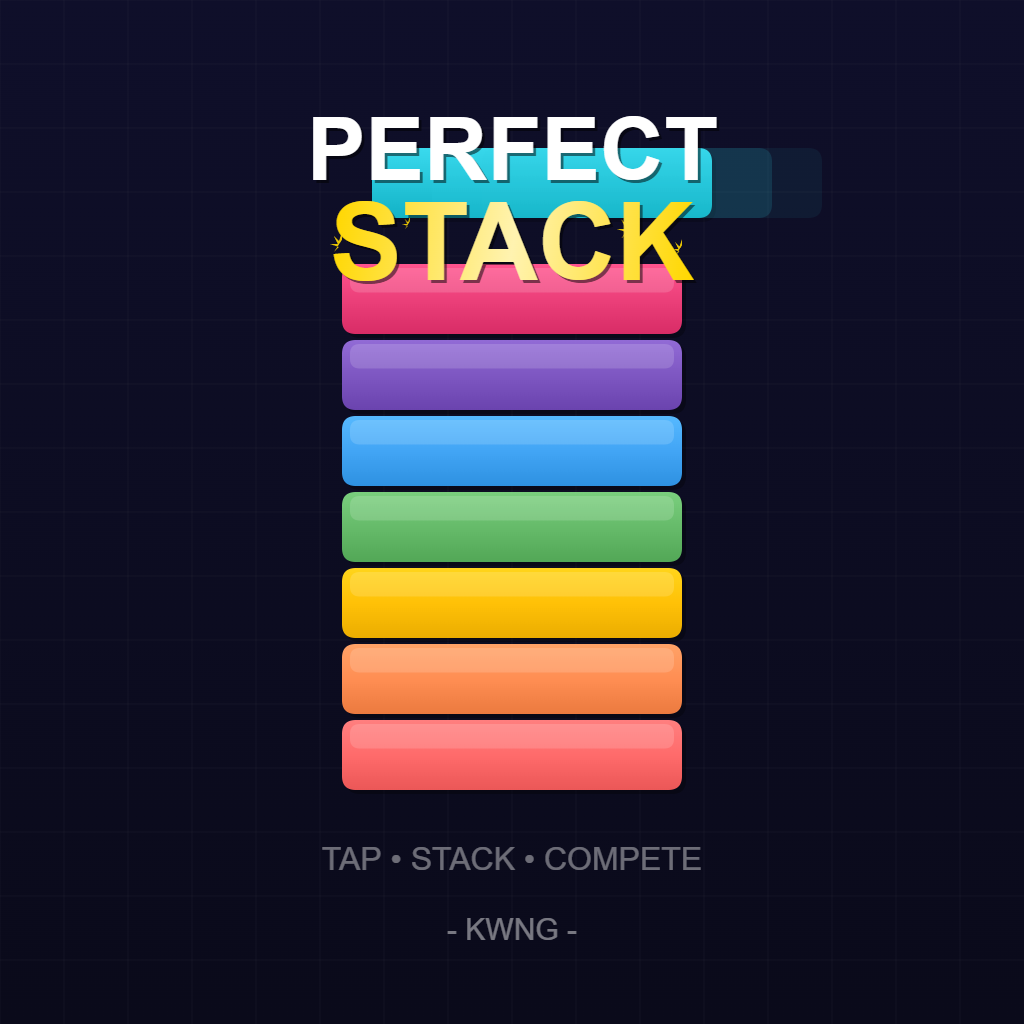
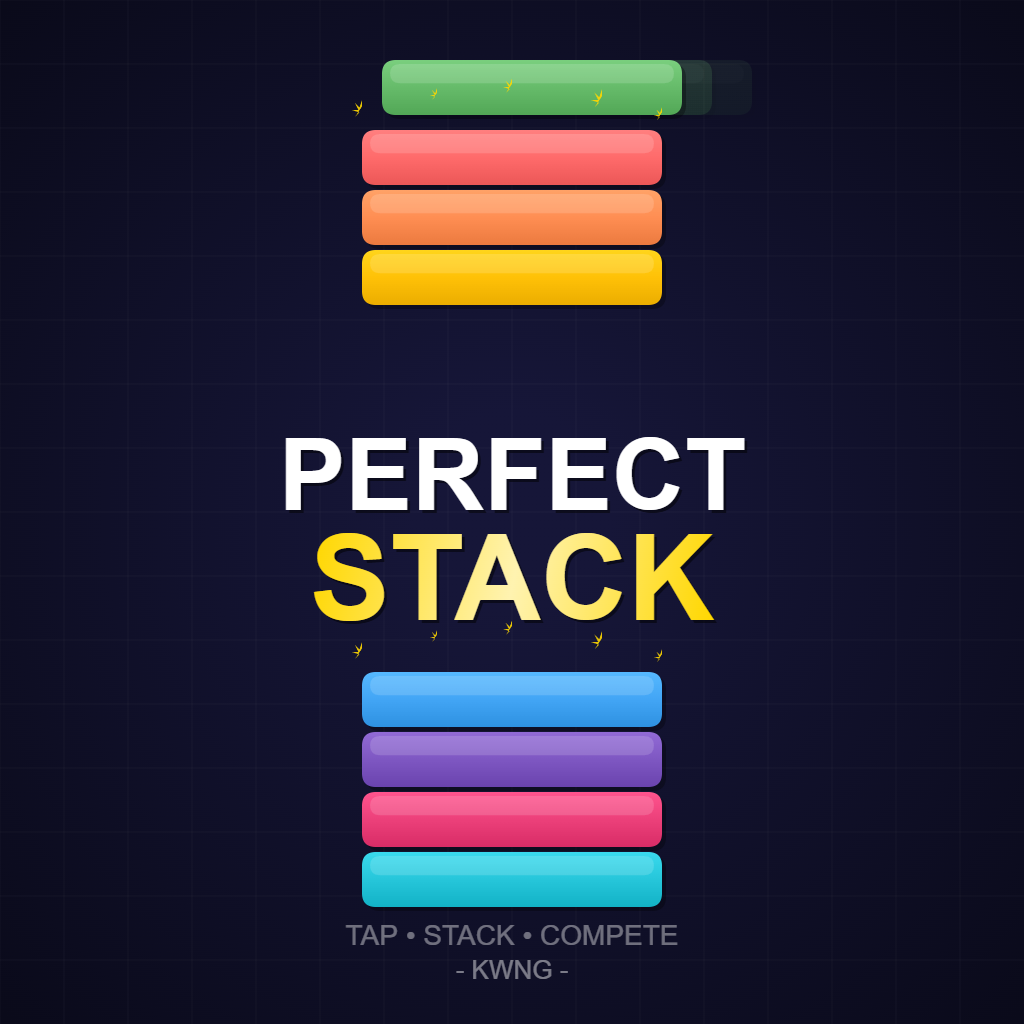
more updates

Changed region(s): [[0.2812, 0.0312, 0.7812, 0.9688]]

diff --git a/scripts/generate-icon.html b/scripts/generate-icon.html
@@ -38,22 +38,21 @@
   <h2>Perfect Stack — App Icon (1024x1024)</h2>
   <canvas id="icon" width="1024" height="1024"></canvas>
   <button onclick="download()">Download Icon (PNG)</button>
-  <p>The downloaded file will have square corners — Apple rounds them automatically.</p>
+  <p>The downloaded file will have square corners — Apple/Google rounds them automatically.</p>
 
   <script>
     const S = 1024;
     const c = document.getElementById("icon");
     const ctx = c.getContext("2d");
 
-    // Colors from the game palette
     const PALETTE = [
       "#FF6B6B", "#FF8E53", "#FFC107", "#66BB6A",
       "#42A5F5", "#7E57C2", "#EC407A", "#26C6DA",
     ];
 
     // Background — dark gradient
-    const bg = ctx.createLinearGradient(0, 0, 0, S);
-    bg.addColorStop(0, "#0F0F2A");
+    const bg = ctx.createRadialGradient(S / 2, S / 2, 100, S / 2, S / 2, S * 0.7);
+    bg.addColorStop(0, "#161638");
     bg.addColorStop(1, "#0A0A1A");
     ctx.fillStyle = bg;
     ctx.fillRect(0, 0, S, S);
@@ -66,109 +65,99 @@
       ctx.beginPath(); ctx.moveTo(0, i); ctx.lineTo(S, i); ctx.stroke();
     }
 
-    // Draw stacked blocks
-    const blockW = 340;
-    const blockH = 70;
-    const startX = (S - blockW) / 2;
-    const startY = 720; // bottom of stack
-    const blocks = 7;
-    const gap = 6;
+    // --- TOP BLOCKS (above text) ---
+    const blockW = 300;
+    const blockH = 55;
+    const topStackX = (S - blockW) / 2;
+    const topBlocks = 3;
 
-    for (let i = 0; i < blocks; i++) {
-      const x = startX;
-      const y = startY - i * (blockH + gap);
-      const color = PALETTE[i % PALETTE.length];
-      const r = 14;
+    // Moving block with trail at the very top
+    const movY = 60;
+    const movColor = PALETTE[3];
+    ctx.globalAlpha = 0.07;
+    drawBlock(ctx, topStackX + 90, movY, blockW, blockH, movColor);
+    ctx.globalAlpha = 0.15;
+    drawBlock(ctx, topStackX + 50, movY, blockW, blockH, movColor);
+    ctx.globalAlpha = 1;
+    drawBlock(ctx, topStackX + 20, movY, blockW, blockH, movColor);
 
-      // Block shadow
-      ctx.fillStyle = "rgba(0,0,0,0.3)";
-      roundRect(ctx, x + 4, y + 4, blockW, blockH, r);
-      ctx.fill();
-
-      // Block body — gradient
-      const grad = ctx.createLinearGradient(x, y, x, y + blockH);
-      grad.addColorStop(0, lighten(color, 20));
-      grad.addColorStop(0.5, color);
-      grad.addColorStop(1, darken(color, 20));
-      ctx.fillStyle = grad;
-      roundRect(ctx, x, y, blockW, blockH, r);
-      ctx.fill();
-
-      // Shine on top
-      ctx.fillStyle = "rgba(255,255,255,0.15)";
-      roundRect(ctx, x + 8, y + 4, blockW - 16, blockH * 0.35, r - 4);
-      ctx.fill();
-
-      // Top block sparkle effect (perfect indicator)
-      if (i === blocks - 1) {
-        drawSparkles(ctx, x + blockW / 2, y, blockW);
-      }
+    // Stacked blocks above text
+    for (let i = 0; i < topBlocks; i++) {
+      const y = 130 + i * (blockH + 5);
+      drawBlock(ctx, topStackX, y, blockW, blockH, PALETTE[i]);
     }
 
-    // Moving block above stack (slightly offset to show gameplay)
-    const movingY = startY - blocks * (blockH + gap) - 40;
-    const movingX = startX + 30; // slightly offset
-    const movingColor = PALETTE[blocks % PALETTE.length];
+    // Sparkles between top blocks and text
+    drawSparkles(ctx, S / 2, 125, blockW);
 
-    // Moving block shadow
-    ctx.fillStyle = "rgba(0,0,0,0.2)";
-    roundRect(ctx, movingX + 4, movingY + 4, blockW, blockH, 14);
-    ctx.fill();
-
-    // Moving block with dashed outline to show motion
-    const mGrad = ctx.createLinearGradient(movingX, movingY, movingX, movingY + blockH);
-    mGrad.addColorStop(0, lighten(movingColor, 20));
-    mGrad.addColorStop(0.5, movingColor);
-    mGrad.addColorStop(1, darken(movingColor, 20));
-    ctx.fillStyle = mGrad;
-    roundRect(ctx, movingX, movingY, blockW, blockH, 14);
-    ctx.fill();
-
-    // Motion trail for moving block
-    ctx.globalAlpha = 0.15;
-    ctx.fillStyle = movingColor;
-    roundRect(ctx, movingX + 60, movingY, blockW, blockH, 14);
-    ctx.fill();
-    ctx.globalAlpha = 0.07;
-    roundRect(ctx, movingX + 110, movingY, blockW, blockH, 14);
-    ctx.fill();
-    ctx.globalAlpha = 1;
-
-    // "PERFECT STACK" text
+    // --- CENTER TEXT ---
     ctx.textAlign = "center";
+    ctx.textBaseline = "middle";
 
-    // Text shadow
+    // "PERFECT" shadow
     ctx.fillStyle = "rgba(0,0,0,0.5)";
-    ctx.font = "bold 88px -apple-system, Helvetica, Arial, sans-serif";
-    ctx.fillText("PERFECT", S / 2 + 3, 183);
-    ctx.font = "bold 108px -apple-system, Helvetica, Arial, sans-serif";
-    ctx.fillText("STACK", S / 2 + 3, 283);
+    ctx.font = "bold 100px -apple-system, Helvetica, Arial, sans-serif";
+    ctx.fillText("PERFECT", S / 2 + 3, S / 2 - 30 + 3);
 
-    // Main text
+    // "PERFECT" white
     ctx.fillStyle = "#FFFFFF";
-    ctx.font = "bold 88px -apple-system, Helvetica, Arial, sans-serif";
-    ctx.fillText("PERFECT", S / 2, 180);
+    ctx.font = "bold 100px -apple-system, Helvetica, Arial, sans-serif";
+    ctx.fillText("PERFECT", S / 2, S / 2 - 30);
 
-    // "STACK" with gold gradient
-    const tGrad = ctx.createLinearGradient(S / 2 - 180, 220, S / 2 + 180, 280);
+    // "STACK" shadow
+    ctx.fillStyle = "rgba(0,0,0,0.5)";
+    ctx.font = "bold 120px -apple-system, Helvetica, Arial, sans-serif";
+    ctx.fillText("STACK", S / 2 + 3, S / 2 + 75 + 3);
+
+    // "STACK" gold gradient
+    const tGrad = ctx.createLinearGradient(S / 2 - 200, S / 2 + 30, S / 2 + 200, S / 2 + 120);
     tGrad.addColorStop(0, "#FFD700");
     tGrad.addColorStop(0.5, "#FFF3B0");
     tGrad.addColorStop(1, "#FFD700");
     ctx.fillStyle = tGrad;
-    ctx.font = "bold 108px -apple-system, Helvetica, Arial, sans-serif";
-    ctx.fillText("STACK", S / 2, 280);
+    ctx.font = "bold 120px -apple-system, Helvetica, Arial, sans-serif";
+    ctx.fillText("STACK", S / 2, S / 2 + 75);
+
+    // --- BOTTOM BLOCKS (below text) ---
+    const botStartY = S / 2 + 160;
+    const botBlocks = 4;
+
+    for (let i = 0; i < botBlocks; i++) {
+      const y = botStartY + i * (blockH + 5);
+      drawBlock(ctx, topStackX, y, blockW, blockH, PALETTE[(i + 4) % PALETTE.length]);
+    }
+
+    // Sparkles on bottom stack
+    drawSparkles(ctx, S / 2, botStartY - 5, blockW);
 
     // Tagline
     ctx.fillStyle = "rgba(255,255,255,0.4)";
-    ctx.font = "500 32px -apple-system, Helvetica, Arial, sans-serif";
-    ctx.fillText("TAP \u2022 STACK \u2022 COMPETE", S / 2, 870);
+    ctx.font = "500 28px -apple-system, Helvetica, Arial, sans-serif";
+    ctx.fillText("TAP \u2022 STACK \u2022 COMPETE", S / 2, botStartY + botBlocks * (blockH + 5) + 25);
 
     // Developer credit
     ctx.fillStyle = "rgba(255,255,255,0.45)";
-    ctx.font = "500 30px -apple-system, Helvetica, Arial, sans-serif";
-    ctx.fillText("- KWNG -", S / 2, 940);
+    ctx.font = "500 26px -apple-system, Helvetica, Arial, sans-serif";
+    ctx.fillText("- KWNG -", S / 2, botStartY + botBlocks * (blockH + 5) + 60);
 
     // --- Helper functions ---
+
+    function drawBlock(ctx, x, y, w, h, color) {
+      const r = 14;
+      ctx.fillStyle = "rgba(0,0,0,0.3)";
+      roundRect(ctx, x + 4, y + 4, w, h, r);
+      ctx.fill();
+      const grad = ctx.createLinearGradient(x, y, x, y + h);
+      grad.addColorStop(0, lighten(color, 20));
+      grad.addColorStop(0.5, color);
+      grad.addColorStop(1, darken(color, 20));
+      ctx.fillStyle = grad;
+      roundRect(ctx, x, y, w, h, r);
+      ctx.fill();
+      ctx.fillStyle = "rgba(255,255,255,0.15)";
+      roundRect(ctx, x + 8, y + 4, w - 16, h * 0.35, r - 4);
+      ctx.fill();
+    }
 
     function roundRect(ctx, x, y, w, h, r) {
       ctx.beginPath();
@@ -186,11 +175,11 @@
 
     function drawSparkles(ctx, cx, cy, spread) {
       const sparkles = [
-        { x: cx - spread * 0.5, y: cy - 20, s: 12 },
-        { x: cx + spread * 0.5, y: cy - 15, s: 10 },
-        { x: cx - spread * 0.3, y: cy - 40, s: 8 },
-        { x: cx + spread * 0.35, y: cy - 35, s: 14 },
-        { x: cx, y: cy - 50, s: 10 },
+        { x: cx - spread * 0.5, y: cy - 15, s: 10 },
+        { x: cx + spread * 0.5, y: cy - 10, s: 8 },
+        { x: cx - spread * 0.25, y: cy - 30, s: 7 },
+        { x: cx + spread * 0.3, y: cy - 25, s: 11 },
+        { x: cx, y: cy - 38, s: 9 },
       ];
       sparkles.forEach(sp => {
         ctx.fillStyle = "rgba(255, 215, 0, 0.9)";

diff --git a/App.js b/App.js
@@ -2084,11 +2084,28 @@ export default function App() {
     })),
   ).current;
 
-  // Audio players (expo-audio)
-  const gamePlayer = useAudioPlayer(require("./assets/game-music.wav"));
-  const gameOverPlayer = useAudioPlayer(require("./assets/gameover-music.wav"));
-  const stackPlayer = useAudioPlayer(require("./assets/stack-sound.wav"));
-  const perfectPlayer = useAudioPlayer(require("./assets/perfect-sound.wav"));
+  // Audio players (expo-audio) — wrapped for Android safety
+  const _gamePlayer = useAudioPlayer(require("./assets/game-music.wav"));
+  const _gameOverPlayer = useAudioPlayer(require("./assets/gameover-music.wav"));
+  const _stackPlayer = useAudioPlayer(require("./assets/stack-sound.wav"));
+  const _perfectPlayer = useAudioPlayer(require("./assets/perfect-sound.wav"));
+
+  // Safe wrapper: all player method calls go through try-catch to prevent native crashes
+  const safePlayer = useCallback((player) => {
+    if (!player) return { play() {}, pause() {}, seekTo() { return Promise.resolve(); }, get playing() { return false; }, set loop(v) {}, set volume(v) {} };
+    return {
+      play() { try { player.play(); } catch (_) {} },
+      pause() { try { player.pause(); } catch (_) {} },
+      seekTo(pos) { try { return player.seekTo(pos) || Promise.resolve(); } catch (_) { return Promise.resolve(); } },
+      get playing() { try { return player.playing; } catch (_) { return false; } },
+      set loop(v) { try { player.loop = v; } catch (_) {} },
+      set volume(v) { try { player.volume = v; } catch (_) {} },
+    };
+  }, []);
+  const gamePlayer = useMemo(() => safePlayer(_gamePlayer), [_gamePlayer, safePlayer]);
+  const gameOverPlayer = useMemo(() => safePlayer(_gameOverPlayer), [_gameOverPlayer, safePlayer]);
+  const stackPlayer = useMemo(() => safePlayer(_stackPlayer), [_stackPlayer, safePlayer]);
+  const perfectPlayer = useMemo(() => safePlayer(_perfectPlayer), [_perfectPlayer, safePlayer]);
 
   // Sync refs
   const musicMutedRef = useRef(false);
@@ -2257,17 +2274,20 @@ export default function App() {
       } else {
         // Everywhere else (start screen, idle, playing) — play game music
         gameOverPlayer.pause();
-        try { if (!gamePlayer.playing) gamePlayer.play(); } catch (_) {}
+        gamePlayer.play();
       }
     } catch (_) {}
   }, [gameState, musicMuted, appScreen]);
 
   // ---------- Play one-shot sound effect ----------
+  const sfxBusyRef = useRef(false);
   const playSfx = useCallback((player) => {
-    if (musicMutedRef.current || !player) return;
-    try {
-      player.seekTo(0).then(() => player.play()).catch(() => {});
-    } catch (_) {}
+    if (musicMutedRef.current || !player || sfxBusyRef.current) return;
+    sfxBusyRef.current = true;
+    player.seekTo(0).then(() => {
+      player.play();
+      setTimeout(() => { sfxBusyRef.current = false; }, 50);
+    }).catch(() => { sfxBusyRef.current = false; });
   }, []);
 
   // ---------- Game loop ----------
